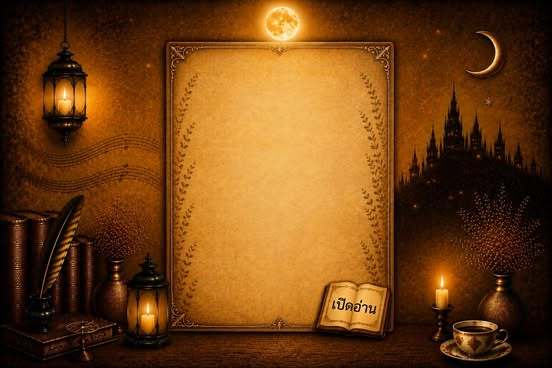
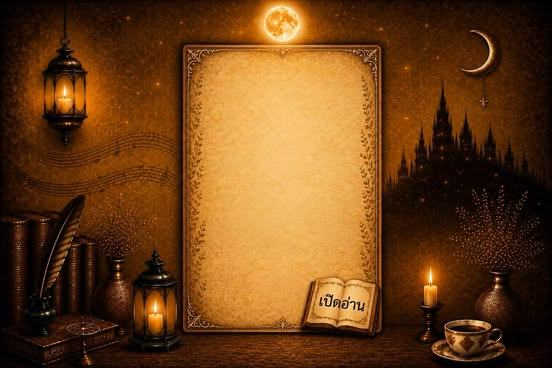
Add files via upload

diff --git a/books3-1.html b/books3-1.html
@@ -4,7 +4,7 @@
 <meta charset="UTF-8">
 <meta name="viewport" content="width=device-width, initial-scale=1.0">
 
-<title>คัมภีร์ใต้แสงจันทร์ ภาค 1</title>
+<title>คัมภีร์ใต้แสงจันทร์</title>
 
 <style>
 
@@ -38,18 +38,18 @@ body { margin: 0; }
 /* ✨ ข้อความบนภาพ */
 .text{
   position:absolute;
-  top:8%;
+  top:10%;
   left:50%;
   transform:translateX(-50%);
   width:90%;
   max-width:680px;
   z-index:9999;
 
-  color:#f3d27a;
+  color:#8B4513;
   text-align:center;
   font-size:clamp(17px, 4.2vw, 18px);
   line-height:2;
- 
+  
 
   padding:8px 12px;
 
@@ -59,16 +59,16 @@ body { margin: 0; }
 }
 
 .text h1{
-  font-size:clamp(17px, 5vw, 18px);
+  font-size:clamp(24px, 5vw, 38px);
   margin:0 0 10px;
-  color:#f3d27a;
+  color:#8B4513;
 }
 
 /* 🚪 ปุ่มนำทาง */
 .nav,
 .end-nav{
   position:absolute;
-  bottom:80px;
+  bottom:65px;
   left:50%;
   transform:translateX(-50%);
   width:96%;
@@ -77,20 +77,22 @@ body { margin: 0; }
   justify-content:center;
   gap:8px;
   z-index:99999;
+ 
 }
 
 .nav a,
 .end-nav a{
   background:rgba(40,28,12,0.78);
-  color:#f3d27a !important;
+  color:#8b4513 !important;
   border:2px solid rgba(255,215,120,0.45);
   text-decoration:none;
+  margin-top:20;
 
   padding:8px 12px;
   border-radius:24px;
   font-size:clamp(17px, 4vw, 18px);
-    line-height:2;
-
+    line-height:1.4;
+  font-weight:bold;
   min-width:120px;
   text-align:center;
 
@@ -103,21 +105,22 @@ body { margin: 0; }
   .text{
     top:5%;
     width:92%;
-      font-size:clamp(17px, 4vw, 18px);
-    line-height:2;
+      font-size:clamp(18px, 4vw, 20px);
+    line-height:1.4;
     padding:6px 10px;
   }
 
   .text h1{
-font-size:clamp(17px, 4vw, 18px);
-    line-height:2;
+font-size:clamp(18px, 4vw, 20px);
+    line-height:1.4;
     margin-bottom:8px;
   }
 
   .nav,
   .end-nav{
     bottom:8px;
-    gap:-10px;
+    gap:6px;
+    margin-top:20;
   }
 
   .nav a,
@@ -127,6 +130,7 @@ font-size:clamp(17px, 4vw, 18px);
     min-width:105px;
     padding:7px 10px;
     border-radius:22px;
+    margin-top:20;
   }
 }
 
@@ -143,17 +147,17 @@ font-size:clamp(17px, 4vw, 18px);
     <div class="bg bg2"></div>
 
     <div class="text">
-      <h1></h1>
-        <p></p>
+      <h1>แสงนำทาง 1</h1>
+        <p>"แตะที่พื้นภาพ… <br>แล้วคุณจะเห็นแสงนำทาง</p>
     </div>
 
 </div>
 
 <!-- 🚪 ปุ่มนำทาง -->
 <div class="end-nav" id=endNav>
-  <a href="books3-1.html" class="btn">ย้อนภาค 1</a>
+  <a href=books3-1.html" class="btn">ย้อนดูภาค 1</a>
   <a href="books3.html#story-point" class="back-btn">กลับห้อง</a>
-  <a href="books3-2.html" class="btn">ไปภาค 2</a>
+  <a href="books3-2.html" class="btn">ไปดูภาค 2</a>
 
 </div>
  
@@ -161,14 +165,11 @@ font-size:clamp(17px, 4vw, 18px);
 </div>
 
 <script>
-let images = ["books-photo3-1.0.jpg","books-photo3-1.1.jpg","books-photo3-1.2.jpg","books-photo3-0.3.jpg","books-photo3-0.4.jpg","books-photo3-0.5.jpg"
-];
+let images = ["books-photo3-1.0.jpg","books-photo3-1.1.jpg","books-photo3-1.2.jpg"];
 
-let texts = [
-    "",
-    "",
-    "คัมภีร์ใต้แสงจันทร์ ภาค 1 จุดกำเนิดของแสง<br>ไม่มีใครตั้งใจจะเขียนคัมภีร์เล่มนี้ มันไม่ได้เริ่มต้นจากนักเขียน<br>ไม่ได้เริ่มต้นจากครู และไม่ได้เริ่มต้นจากความคิด<br>ที่จะสร้างหนังสือสักเล่ม มันเริ่มต้นจากบทเพลงหนึ่งบท<br> บทเพลงที่ส่งผ่านความคิดถึง<br>ไปยังใครบางคนบนฟ้า ค่อยๆ กลายเป็นเรื่องเล่า<br>และจากเรื่องเล่า จึงกลายมาเป็น<br>“คัมภีร์ใต้แสงจันทร์”เรื่องราวในเล่มนี้<br> มิได้เกิดจากจินตนาการเพียงอย่างเดียว<br>แต่เกิดจากเหตุการณ์จริง ความรู้สึกจริง รอยยิ้มจริง<br>และข้อคิดที่เกิดขึ้นระหว่างทาง ใต้แสงจันทร์ <br>ที่คอยส่องนำทางอย่างเงียบงาม<br>หากพร้อมแล้ว เชิญคลิกที่พื้นภาพ เปิดหน้าถัดไป <br>แล้วปล่อยให้หัวใจออกเดินทางไปพร้อมกับแสงจันทร์"  
-];
+let texts = ["",
+ "",
+ "คัมภีร์ใต้แสงจันทร์ <br>ภาค 1 จุดกำเนิดของแสง<br>ไม่มีใครตั้งใจจะเขียนคัมภีร์เล่มนี้ มันไม่ได้เริ่มต้นจากนักเขียน<br>ไม่ได้เริ่มต้นจากครู และไม่ได้เริ่มต้นจากความคิด<br>ที่จะสร้างหนังสือสักเล่ม มันเริ่มต้นจากบทเพลงหนึ่งบท<br> บทเพลงที่ส่งผ่านความคิดถึงไปยังใครบางคนบนฟ้า<br> ค่อยๆ กลายเป็นเรื่องเล่า และจากเรื่องเล่า จึงกลายมาเป็น<br>“คัมภีร์ใต้แสงจันทร์”เรื่องราวในเล่มนี้<br> มิได้เกิดจากจินตนาการเพียงอย่างเดียว<br>แต่เกิดจากเหตุการณ์จริง ความรู้สึกจริง รอยยิ้มจริง<br>และข้อคิดที่เกิดขึ้นระหว่างทาง ใต้แสงจันทร์ <br>ที่คอยส่องนำทางอย่างเงียบงาม<br>หากพร้อมแล้ว เชิญคลิกเปิดอ่านที่พื้นภาพ <br>แล้วปล่อยให้หัวใจออกเดินทางไปพร้อมกับแสงจันทร์"];
 
 let i = 0;
 let toggle = true;